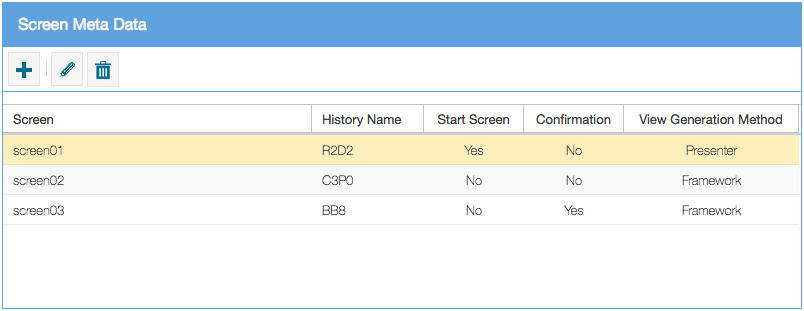
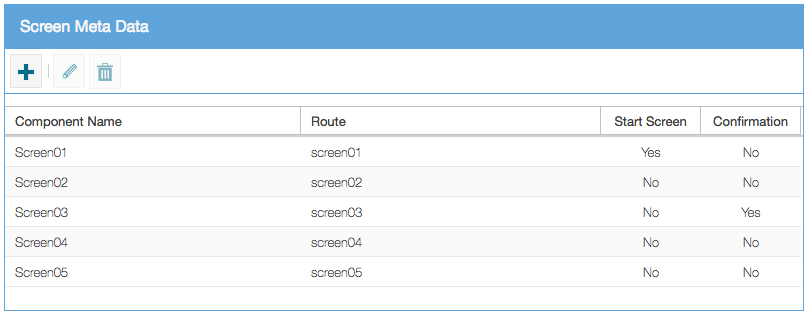
update docs

diff --git a/src/main/java/de/gishmo/gwt/gwtbootstarternalu/client/ui/content/ContentComponent.java b/src/main/java/de/gishmo/gwt/gwtbootstarternalu/client/ui/content/ContentComponent.java
@@ -210,7 +210,7 @@ public class ContentComponent
                                                     "a - z, A - Z, 0 - 9, '-' and '.' allowed"));
 
     this.applicationLoader = new CheckBox();
-    this.applicationLoader.setBoxLabel("Generate Apllication Loader class");
+    this.applicationLoader.setBoxLabel("Generate Application Loader class");
 
     this.debug = new CheckBox();
     this.debug.setBoxLabel("Generate Debug support (in development mode)");

diff --git a/README.md b/README.md
@@ -1,8 +1,5 @@
 <a title="Gitter" href="https://gitter.im/mvp4g/mvp4g"><img src="https://badges.gitter.im/Join%20Chat.svg"></a>
 
-**TODO: Update Bilder & description**
-
-
 # Nalu Project Generator
 
 ## Motivation
@@ -71,23 +68,22 @@ In this area the features of Nalu for generated the project are defined.
 ![Project Meta Data](https://github.com/mvp4g/gwt-boot-starter-nalu/blob/master/etc/images/ApplicationMetaData.png?raw=true)
 
 #### Application Loader
-**TODO: Link**
 If checked, a [application loader](https://github.com/mvp4g/nalu/wiki/02.-Application-Loader) will be added to the project source code.
-can be found [here].
+More information can be found [here](https://github.com/mvp4g/nalu/wiki/03.-Application-Loader).
 
 #### Debug Support
 **TODO: Link**
-If checked, the [Debug](https://github.com/mvp4g/nalu/wiki/03.-Defining-an-Event-Bus#logs) annotation will be
-generated inside the event bus.
+If checked, the [Debug](https://github.com/mvp4g/nalu/wiki/02.-Application#debug-annotation) annotation will be
+aded to the applicaiton interface.
 
 ### Screen Meta Data
 
-In this area the screens are defined. A screen in nalu is a combination of a presenter and a view. There are three
-predefined screens called screen01, screen02 and screen03. The generator needs at least one screen to generate a fully working project.
+In this area the screens are defined. A screen in Nalu is a combination of a controller and a component. There are five
+predefined screens called Screen01, Screen02, Screen03, Screen04 and screen05. The generator needs at least one screen to generate a fully working project.
 
 ![Project Meta Data](https://github.com/mvp4g/gwt-boot-starter-nalu/blob/master/etc/images/ScreenMetaData.png?raw=true)
 
-There are three buttons:
+Te function of the tool bar buttons:
 
 - the first buttons adds another screen
 
@@ -99,15 +95,10 @@ In case you add or edit a screen, a window will open:
 
 ![Add or edit screen data](https://github.com/mvp4g/gwt-boot-starter-nalu/blob/master/etc/images/ScreenWindowMetaData.png?raw=true)
 
-**TODO: udpate text**
-
 Using this window, you can:
 
-* name the screen: this name will be used as package name, the goto event, the presenter- and view-name, etc
-* history name (optional): if entered, this name will be used as token instead the event name
-* view creation method:
-  * view is created by framework: the instance of the view will be created by the framwork (using 'new')
-  * view is created by presenter: the instance of the view has to be created by the developer
+* name of the component: this name will be used as package name, the controller- and component-name, etc
+* route: this route is the url token binded to a controller
 * use this screen as start screen of the application (if there is no history token, this will be the screen, that will
   be shown at start of the application)
-* enable navigation confirmation
+* enable confirmation in case the controller will be stopped
